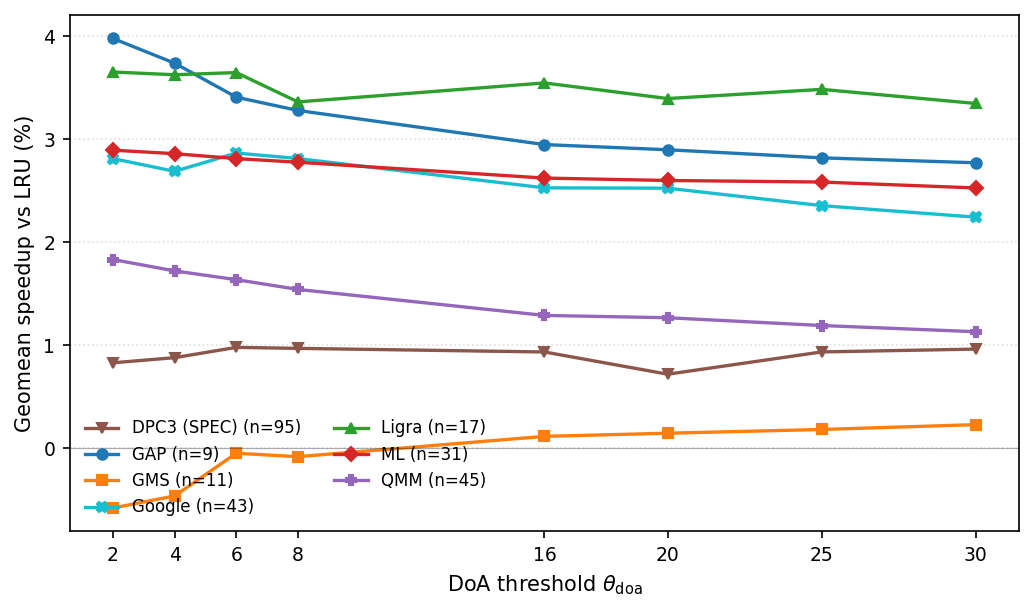
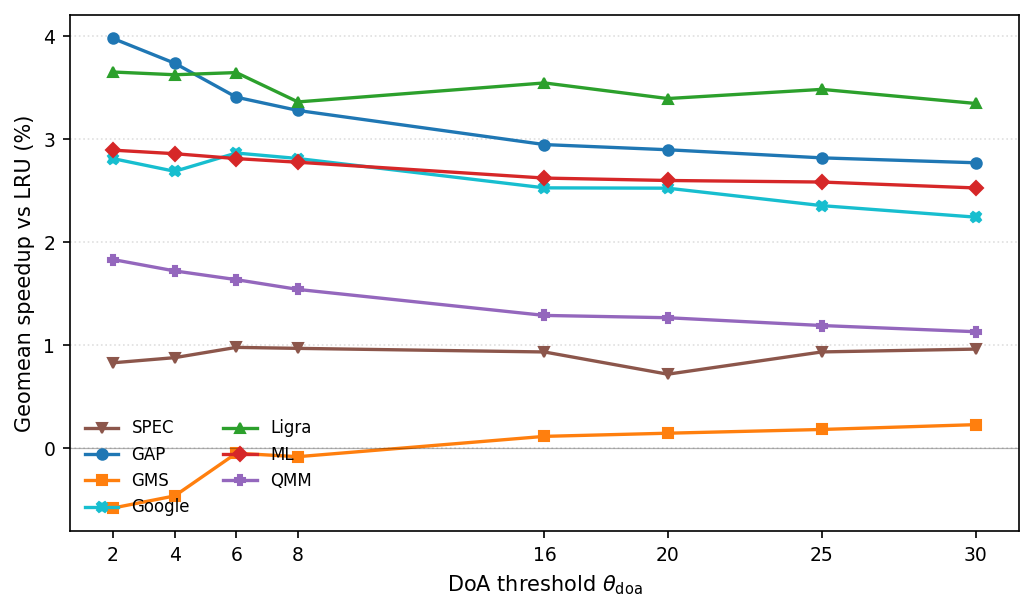
paper: recover and correct Figures 2 and 3 (LRU-Live threshold/size sensitivity)
Same lost-stash incident as Figure 7: these were switched from SRRIP-Live/vs-
SRRIP to LRU-Live/vs-LRU on 2026-07-01, but never landed on any branch.

Figure 2 (fig:doa_thd): the stashed copy was incomplete (missing theta_doa=6,
the paper's own calibrated default). Used the real, complete, already-
committed source instead -- scripts/analysis/plot_lru_live_threshold.py reads
allsuites_thd_phase{2,3}/llc/lru_live/doa{N} vs results/baselines/lru, and was
already correct, just never wired into the paper. Rewrote the prose: the real
data doesn't show GAP "peaking at 6" (that was the old SRRIP-Live claim); GAP/
ML/QMM actually peak at theta=2 and decline monotonically, GMS is the one that
improves with a higher threshold, and theta=6 is argued as a cross-suite
compromise rather than one suite's optimum.

Figure 3 (fig:size_sensitivity): the stashed copy was an explicitly-labeled
"DRAFT -- dpc3 pending" (still on disk as size_sensitivity_draft.png). Found
the complete run on the cluster (results/lru_live_size_peakthd_20260630_2127,
each suite at its own optimal theta_doa, verified 100% complete before
downloading -- now stored locally, 68MB) and wrote
scripts/analysis/plot_lru_live_size_sensitivity.py against it. Per author
direction, each suite's curve is normalised to its own cap=16384 speedup
(100% = unbounded ceiling) rather than plotted as absolute speedup, and GMS
is excluded (negative at every capacity, nothing to show on this axis).
[…]

Changed region(s): [[0.1238, 0.683, 0.4642, 0.8382]]

diff --git a/results/paper/main.tex b/results/paper/main.tex
@@ -739,12 +739,11 @@ uniformly.
 
 \begin{figure}[t!]
 \centering
-\includegraphics[width=\linewidth]{../plots/doa_threshold.png}
-\caption{Per-suite DoA threshold sensitivity: \srrip-Live geomean IPC speedup over
-  pure \srrip as a function of $\theta_{\mathrm{doa}}$ (\llc-only guidance, mode-5
-  falling-weight scoring, PC-keyed history table). Each curve is over the suite's
-  full trace set; SPEC is SimPoint-weighted. The dashed line marks the default
-  $\theta_{\mathrm{doa}}=6$.}
+\includegraphics[width=\linewidth]{../plots/lru_live_threshold.png}
+\caption{Per-suite DoA threshold sensitivity for \lru-Live: geomean IPC speedup
+  over plain \lru as a function of $\theta_{\mathrm{doa}}$ (\llc-only guidance,
+  mode-5 falling-weight scoring, unbounded PC-keyed history table). Each curve
+  is over the suite's full trace set; SPEC is SimPoint-weighted.}
 \label{fig:doa_thd}
 \end{figure}
 
@@ -753,45 +752,56 @@ uniformly.
 
 \begin{figure}[t!]
 \centering
-\includegraphics[width=\linewidth]{../plots/size_sensitivity.png}
-\caption{\llc history table size sensitivity per suite (\srrip-Live,
-  $\theta{=}6/10$, tiered replacement). Y-axis: absolute geomean IPC speedup
-  vs pure \srrip. Open markers at~$\infty$ show the true unbounded result
-  (same binary, no capacity limit).}
+\includegraphics[width=\linewidth]{../plots/lru_live_size_sensitivity.png}
+\caption{\llc history table size sensitivity for \lru-Live, at each suite's own
+  optimal $\theta_{\mathrm{doa}}$ (GAP=2, Ligra=4, QMM=8, ML/Google/SPEC=30).
+  Y-axis: each suite's geomean IPC speedup vs.\ plain \lru at that capacity,
+  normalised to its own speedup at 16{,}384 entries (100\% = the unbounded
+  ceiling). GMS is omitted: its guidance result is negative at every capacity.}
 \label{fig:size_sensitivity}
 \end{figure}
 
 Figure~\ref{fig:doa_thd} sweeps the DoA threshold $\theta_{\mathrm{doa}}$ for
-\srrip-Live on every suite, reported as geomean IPC speedup over pure \srrip.
-Three behaviours emerge. GAP --- the largest single-suite gain --- peaks sharply
-at $\theta_{\mathrm{doa}}=6$ ($+6.1\%$) and declines as the threshold rises,
-because its mostly-alive blocks are misclassified \doa when the counter saturates
-too slowly. Most suites instead rise monotonically and plateau by
-$\theta_{\mathrm{doa}}\approx16$ (SPEC, GMS, Google, QMM, ML), where a higher bar
-suppresses spurious \doa classifications at a small cost in responsiveness. ML
-shows the cost of an over-aggressive threshold directly: at $\theta_{\mathrm{doa}}=2$
-it loses $-5.8\%$, recovering to $+1.7\%$ by $\theta_{\mathrm{doa}}=4$. Ligra is
-the holdout, remaining slightly negative until $\theta_{\mathrm{doa}}\approx25$.
-We adopt $\theta_{\mathrm{doa}}=6$ as the default: it captures GAP's optimum and
-sits within ${\approx}1\%$ of the plateau for the SPEC and server suites, trading
-a small amount of headroom on the graph suites for robustness on the suite with
-the most to gain.
+\lru-Live on every suite, reported as geomean IPC speedup over plain \lru.
+GAP, ML, and QMM peak at the lowest threshold tested
+($\theta_{\mathrm{doa}}=2$) and decline monotonically as the threshold rises
+($+3.98\%\to+2.77\%$, $+2.89\%\to+2.53\%$, and $+1.83\%\to+1.13\%$
+respectively, from $\theta_{\mathrm{doa}}=2$ to $30$): a lower bar classifies
+blocks \doa sooner, so these suites are best served by the most aggressive
+setting available. SPEC, Google, and Ligra instead stay flat and noisy across
+the whole sweep, each sitting at or near a local peak around
+$\theta_{\mathrm{doa}}=6$ ($+0.98\%$, $+2.87\%$, $+3.65\%$). GMS is the
+exception that benefits from a \emph{higher} threshold: it is clearly harmful
+at $\theta_{\mathrm{doa}}=2$ ($-0.58\%$), crosses to roughly breakeven by
+$\theta_{\mathrm{doa}}=6$ ($-0.05\%$), and keeps improving through
+$\theta_{\mathrm{doa}}=30$ ($+0.23\%$). We adopt $\theta_{\mathrm{doa}}=6$ as
+the default: it sits at or near the local peak for the flat suites, still
+captures most of the early gain for the declining suites, and is the point
+where GMS stops being clearly harmful --- a reasonable single compromise
+across suites whose optima otherwise point in opposite directions.
 
-We sweep the \llc history table capacity from 8 to 4096 entries (\srrip-Live,
-$\theta_\text{LLC}{=}6$, $\theta_\text{dead}{=}10$, tiered table replacement).
-The y-axis is the absolute geomean IPC speedup over pure \srrip.
+We sweep the \llc history table capacity from 8 to 16{,}384 entries
+(\lru-Live, each suite at its own optimal $\theta_{\mathrm{doa}}$ from
+Figure~\ref{fig:doa_thd}, tiered table replacement), normalising each suite's
+curve to its own speedup at cap=16{,}384 (treated as the unbounded ceiling,
+$100\%$). GMS is omitted, consistent with its negative replacement-guidance
+contribution at every threshold (Figure~\ref{fig:doa_thd}).
 
-Figure~\ref{fig:size_sensitivity} reveals three qualitatively different behaviours.
-GAP and ML converge to their unbounded speedup by cap=32--64: their \doa traffic
-is concentrated in only a handful of PCs (Table~\ref{tab:concentration}), so a
-tiny table captures the entire signal.
-QMM needs a much larger table: at cap=8 the benefit is negligible (${\approx}0\%$),
-growing monotonically to $+1.5\%$ at cap=4096, because QMM's \doa traffic is
-spread across ${\sim}35$K unique PCs and warm-misses at small capacities keep
-those PCs mis-classified as mostly-alive.
-GMS and Ligra show no net benefit from liveness guidance at any table size
-($-0.6\%$ and $-2.0\%$ throughout), consistent with their near-zero or negative
-replacement-guidance contribution in Figure~\ref{fig:live_vs_base}.
+Figure~\ref{fig:size_sensitivity} shows two qualitatively different
+behaviours. GAP, Ligra, and ML reach ${\approx}90\%$ of their ceiling by
+cap=32 and are within noise of $100\%$ by cap=256 ($86.7\%\to98.2\%\to99.2\%$,
+$81.5\%\to93.3\%\to99.7\%$, and $87.9\%\to100.5\%\to99.6\%$ respectively, from
+cap=8 to 32 to 256): their \doa traffic is concentrated in only a handful of
+PCs (Table~\ref{tab:concentration}), so a small table already captures nearly
+the whole signal. SPEC needs more capacity and is noisier along the
+way (dipping to $41.6\%$ at cap=64 after reaching $70.8\%$ at cap=16), but
+still reaches $91.7\%$ by cap=256 and is effectively converged by cap=1024.
+QMM and Google are qualitatively different: both stay below $20\%$ of their
+ceiling through cap=256 and don't cross $50\%$ until cap=2K--4K, only
+reaching their full gain at the largest capacity tested, because their \doa
+traffic is spread across tens of thousands of unique PCs and small capacities
+evict most of those PCs before they accumulate enough evidence to be
+classified \doa.
 
 \begin{figure*}[t!]
 \centering
@@ -1051,7 +1061,7 @@ per-PC entry aggregates every fill issued by the same load instruction into a
 single counter, whereas a per-address entry on these workloads is rarely
 updated more than once before its block is evicted.
 
-SPEC (DPC3) is the exception: per-PC guidance alone reaches only $+0.40\%$,
+SPEC is the exception: per-PC guidance alone reaches only $+0.40\%$,
 and per-address edges slightly ahead at $+0.73\%$. This is a marked change
 from the combined bypass\,+\,replacement result (\S\ref{sec:perf}), where
 per-PC led SPEC by $+17.3\%$ to $+3.0\%$ --- indicating that per-PC's

diff --git a/scripts/analysis/plot_lru_live_size_sensitivity.py b/scripts/analysis/plot_lru_live_size_sensitivity.py
@@ -1,0 +1,106 @@
+#!/usr/bin/env python3
+"""LLC history-table size sensitivity for LRU-Live (vs LRU baseline), at each
+suite's own optimal DoA threshold.
+
+Per-suite geomean IPC speedup over plain LRU as a function of REPL_HIST_LLC_CAP,
+normalised to each suite's own speedup at the largest capacity tested (16,384
+entries, treated as the unbounded ceiling = 100%). SPEC uses SimPoint-weighted
+geomean; all others use flat geomean. GMS is excluded: its guidance results
+are negative at every capacity, so there is nothing to show on this axis.
+
+Data sources:
+  numerator : results/lru_live_size_peakthd_20260630_2127/cap{N}/{suite}/{trace}
+              (thd_doa per suite: gap=2, ligra=4, ml=30, qmm=8, google=30, dpc3=30)
+  baseline  : results/baselines/lru/{suite}/{trace}
+"""
+
+import math
+import sys
+from pathlib import Path
+
+import matplotlib
+matplotlib.use("Agg")
+import matplotlib.pyplot as plt
+
+ROOT = Path(__file__).resolve().parents[2]
+sys.path.insert(0, str(Path(__file__).parent))
+from spec_weights import benchmark_weighted_geomean_pct  # noqa: E402
+
+DATA_DIR = ROOT / "results" / "lru_live_size_peakthd_20260630_2127"
+CAPS = [8, 16, 32, 64, 128, 256, 512, 1024, 2048, 4096, 8192, 16384]
+
+SUITES = {"dpc3": "SPEC", "gap": "GAP", "google": "Google",
+          "ligra": "Ligra", "ml": "ML", "qmm": "QMM"}
+WEIGHTED = {"dpc3"}
+COLORS  = {"dpc3": "#8c564b", "gap": "#1f77b4", "google": "#17becf",
+           "ligra": "#2ca02c", "ml": "#d62728", "qmm": "#9467bd"}
+MARKERS = {"dpc3": "v", "gap": "o", "google": "X",
+           "ligra": "^", "ml": "D", "qmm": "P"}
+
+
+def get_ipc(path):
+    try:
+        for line in reversed(Path(path).read_text().splitlines()):
+            if "CPU 0 cumulative IPC:" in line:
+                return float(line.split()[4])
+    except Exception:
+        pass
+    return None
+
+
+def main():
+    fig, ax = plt.subplots(figsize=(7, 4.2))
+
+    for suite, label in SUITES.items():
+        base_dir = ROOT / "results" / "baselines" / "lru" / suite
+        if not base_dir.is_dir():
+            continue
+        base = {td.name: get_ipc(td / "champsim.out")
+                for td in base_dir.iterdir() if td.is_dir()}
+        base = {k: v for k, v in base.items() if v}
+
+        cap_pct = {}
+        for cap in CAPS:
+            suite_dir = DATA_DIR / f"cap{cap}" / suite
+            if not suite_dir.is_dir():
+                continue
+            ratios = {}
+            for tr in base:
+                live = get_ipc(suite_dir / tr / "champsim.out")
+                if live and base[tr] > 0:
+                    ratios[tr] = live / base[tr]
+            if len(ratios) < 3:
+                continue
+            if suite in WEIGHTED:
+                pct = benchmark_weighted_geomean_pct(ratios)
+            else:
+                g = math.exp(sum(math.log(r) for r in ratios.values()) / len(ratios))
+                pct = (g - 1.0) * 100.0
+            cap_pct[cap] = pct
+
+        if 16384 not in cap_pct or cap_pct[16384] == 0:
+            continue
+        ceiling = cap_pct[16384]
+
+        xs = [CAPS.index(cap) for cap in CAPS if cap in cap_pct]
+        ys = [cap_pct[cap] / ceiling * 100.0 for cap in CAPS if cap in cap_pct]
+        ax.plot(xs, ys, color=COLORS[suite], marker=MARKERS[suite],
+                markersize=5, linewidth=1.6, label=label)
+
+    ax.axhline(100, color="black", linestyle="--", linewidth=0.8, alpha=0.5)
+    ax.set_xlabel("LLC history table capacity (entries)", fontsize=10)
+    ax.set_ylabel("% of unbounded-table speedup", fontsize=10)
+    ax.set_xticks(range(len(CAPS)))
+    ax.set_xticklabels(["8", "16", "32", "64", "128", "256", "512", "1K", "2K", "4K", "8K", "16K"], fontsize=8)
+    ax.tick_params(axis="y", labelsize=9)
+    ax.legend(frameon=False, fontsize=9, loc="lower right")
+    ax.grid(axis="y", linestyle=":", alpha=0.4)
+
+    fig.tight_layout()
+    out = ROOT / "results" / "plots" / "lru_live_size_sensitivity.png"
+    fig.savefig(out, dpi=150, bbox_inches="tight")
+    print("wrote", out)
+
+
+if __name__ == "__main__":
+    main()

diff --git a/scripts/analysis/plot_liveness_per_policy.py b/scripts/analysis/plot_liveness_per_policy.py
@@ -31,9 +31,9 @@ OUT     = os.path.join(RESULTS, "plots", "liveness_per_policy.png")
 # in fix-pc-liveness-phase-reset / commit b0d1c047391e), inflating LRU and
 # SRRIP counts by ~2x. IPV's original numbers matched this re-extraction
 # exactly (verified byte-for-byte) and are unchanged.
-RAW = {"SRRIP": {"QMM": {"alive": 523648, "dead": 1309086, "doa": 6405421, "total": 8238155}, "Google": {"alive": 2801205, "dead": 8442057, "doa": 46382134, "total": 57625396}, "Ligra": {"alive": 502087, "dead": 958339, "doa": 34011916, "total": 35472342}, "GAP": {"alive": 1373678, "dead": 1951856, "doa": 18503939, "total": 21829473}, "DPC3": {"alive": 1015601, "dead": 10282550, "doa": 96264282, "total": 107562433}, "ML": {"alive": 110256, "dead": 1903896, "doa": 104506072, "total": 106520224}, "GMS": {"alive": 176645, "dead": 448012, "doa": 5966229, "total": 6590886}}, "LRU": {"QMM": {"alive": 1207365, "dead": 1749802, "doa": 6297828, "total": 9254995}, "Google": {"alive": 5175141, "dead": 10723120, "doa": 44766468, "total": 60664729}, "Ligra": {"alive": 995839, "dead": 1459344, "doa": 33809284, "total": 36264467}, "GAP": {"alive": 2807130, "dead": 3458943, "doa": 17918181, "total": 24184254}, "DPC3": {"alive": 2040753, "dead": 11394670, "doa": 96889207, "total": 110324630}, "ML": {"alive": 219559, "dead": 1906611, "doa": 104171423, "total": 106297593}, "GMS": {"alive": 272688, "dead": 613624, "doa": 5988136, "total": 6874448}}, "IPV": {"QMM": {"alive": 534750, "dead": 2850628, "doa": 4857472, "total": 8242850}, "Google": {"alive": 2951306, "dead": 16629414, "doa": 38059767, "total": 57640487}, "Ligra": {"alive": 510751, "dead": 14413884, "doa": 20547707, "total": 35472342}, "GAP": {"alive": 1415119, "dead": 6268235, "doa": 14146119, "total": 21829473}, "DPC3": {"alive": 1103132, "dead": 33231526, "doa": 73215338, "total": 107549996}, "ML": {"alive": 136913, "dead": 2975735, "doa": 103407558, "total": 106520206}, "GMS": {"alive": 182778, "dead": 538147, "doa": 5869961, "total": 6590886}}}
+RAW = {"SRRIP": {"QMM": {"alive": 523648, "dead": 1309086, "doa": 6405421, "total": 8238155}, "Google": {"alive": 2801205, "dead": 8442057, "doa": 46382134, "total": 57625396}, "Ligra": {"alive": 502087, "dead": 958339, "doa": 34011916, "total": 35472342}, "GAP": {"alive": 1373678, "dead": 1951856, "doa": 18503939, "total": 21829473}, "SPEC": {"alive": 1015601, "dead": 10282550, "doa": 96264282, "total": 107562433}, "ML": {"alive": 110256, "dead": 1903896, "doa": 104506072, "total": 106520224}, "GMS": {"alive": 176645, "dead": 448012, "doa": 5966229, "total": 6590886}}, "LRU": {"QMM": {"alive": 1207365, "dead": 1749802, "doa": 6297828, "total": 9254995}, "Google": {"alive": 5175141, "dead": 10723120, "doa": 44766468, "total": 60664729}, "Ligra": {"alive": 995839, "dead": 1459344, "doa": 33809284, "total": 36264467}, "GAP": {"alive": 2807130, "dead": 3458943, "doa": 17918181, "total": 24184254}, "SPEC": {"alive": 2040753, "dead": 11394670, "doa": 96889207, "total": 110324630}, "ML": {"alive": 219559, "dead": 1906611, "doa": 104171423, "total": 106297593}, "GMS": {"alive": 272688, "dead": 613624, "doa": 5988136, "total": 6874448}}, "IPV": {"QMM": {"alive": 534750, "dead": 2850628, "doa": 4857472, "total": 8242850}, "Google": {"alive": 2951306, "dead": 16629414, "doa": 38059767, "total": 57640487}, "Ligra": {"alive": 510751, "dead": 14413884, "doa": 20547707, "total": 35472342}, "GAP": {"alive": 1415119, "dead": 6268235, "doa": 14146119, "total": 21829473}, "SPEC": {"alive": 1103132, "dead": 33231526, "doa": 73215338, "total": 107549996}, "ML": {"alive": 136913, "dead": 2975735, "doa": 103407558, "total": 106520206}, "GMS": {"alive": 182778, "dead": 538147, "doa": 5869961, "total": 6590886}}}
 
-SUITES   = ["DPC3", "GAP", "GMS", "Google", "Ligra", "ML", "QMM"]
+SUITES   = ["SPEC", "GAP", "GMS", "Google", "Ligra", "ML", "QMM"]
 POLICIES = ["LRU", "SRRIP", "IPV"]
 
 def pct(raw, suite):

diff --git a/scripts/analysis/plot_lru_live_threshold.py b/scripts/analysis/plot_lru_live_threshold.py
@@ -2,7 +2,7 @@
 """DoA threshold sensitivity for LRU-Live (vs LRU baseline).
 
 Per-suite geomean IPC speedup over plain LRU as a function of THD_DOA.
-DPC3 uses SimPoint-weighted geomean; all others use flat geomean.
+SPEC uses SimPoint-weighted geomean; all others use flat geomean.
 
 Data sources:
   numerator : allsuites_thd_phase{2,3}/llc/lru_live/doa{N}/{suite}/{trace}
@@ -36,7 +36,7 @@ THD = {
 }
 THRESHOLDS = sorted(THD)
 
-SUITES = {"dpc3": "DPC3 (SPEC)", "gap": "GAP", "gms": "GMS", "google": "Google",
+SUITES = {"dpc3": "SPEC", "gap": "GAP", "gms": "GMS", "google": "Google",
           "ligra": "Ligra", "ml": "ML", "qmm": "QMM"}
 WEIGHTED = {"dpc3"}
 COLORS  = {"dpc3": "#8c564b", "gap": "#1f77b4", "gms": "#ff7f0e", "google": "#17becf",
@@ -101,7 +101,7 @@ def main():
             continue
 
         ax.plot(xs, ys, color=COLORS[suite], marker=MARKERS[suite],
-                markersize=5, linewidth=1.6, label=f"{label} (n={len(common)})")
+                markersize=5, linewidth=1.6, label=label)
 
     ax.axhline(0, color="black", linewidth=0.6, alpha=0.3)
     ax.set_xlabel(r"DoA threshold $\theta_{\mathrm{doa}}$", fontsize=10)

diff --git a/scripts/analysis/plot_paper_comparison.py b/scripts/analysis/plot_paper_comparison.py
@@ -14,7 +14,7 @@ matplotlib.use("Agg")
 import matplotlib.pyplot as plt
 import numpy as np
 
-SUITES   = ["GAP", "Ligra", "ML", "QMM", "Google", "DPC3", "GMS"]
+SUITES   = ["GAP", "Ligra", "ML", "QMM", "Google", "SPEC", "GMS"]
 PERPC    = [6.12, 4.95, 2.83, 2.53, 2.34, 0.40, -0.63]        # per-PC, unbounded
 PADDR    = [1.41, -0.03, 0.80, 0.76, -0.37, 0.73, -0.19]      # per-address, unbounded
 PADDR_4K = [-0.07, 0.0, 0.0, 0.17, 0.0, 0.0, -0.02]           # per-address, 4096-entry cap

diff --git a/results/paper/FIGURE_PROVENANCE.md b/results/paper/FIGURE_PROVENANCE.md
@@ -355,6 +355,68 @@ that edit was uncommitted and never produced a working figure.
 
 ---
 
+## Figure 2 — `fig:doa_thd` (`results/plots/lru_live_threshold.png`)
+
+> **Corrected 2026-07-02.** This figure and Figure 3 were switched from
+> SRRIP-Live/vs-SRRIP to LRU-Live/vs-LRU on 2026-07-01, but the regenerated PNGs
+> got caught in a `git stash` during a branch switch and were never applied —
+> same incident as Figure 7 (see that section). The stash's copy of this figure
+> also turned out to be incomplete: its threshold sweep omitted
+> $\theta_{\mathrm{doa}}=6$, the paper's own calibrated default, so it couldn't
+> be used to recompute this section's prose. The actual data was already
+> sitting locally and unused: `scripts/analysis/plot_lru_live_threshold.py`
+> (committed, but never wired into the paper) reads
+> `results/allsuites_thd_phase{2,3}_202606{17,18}_*/llc/lru_live/doa{N}` (all
+> thresholds present, including 6) against `results/baselines/lru/{suite}`. Ran
+> it directly; no new data collection needed.
+
+### Regeneration
+```bash
+python3 scripts/analysis/plot_lru_live_threshold.py
+```
+Output: `results/plots/lru_live_threshold.png`. All source directories are
+present locally (see script docstring for exact paths).
+
+### What changed from the superseded SRRIP-Live version
+
+The old figure claimed GAP "peaks sharply at $\theta_{\mathrm{doa}}=6$" and
+motivated the default on that basis. The real LRU-Live data shows a different
+shape: GAP, ML, and QMM peak at $\theta_{\mathrm{doa}}=2$ and decline
+monotonically; SPEC, Google, and Ligra are flat/noisy with a local peak near
+6; GMS is the one that improves with a *higher* threshold, crossing from
+negative to positive around 6. The $\theta_{\mathrm{doa}}=6$ default is
+still adopted, but the prose now argues for it as a cross-suite compromise
+rather than a single suite's peak.
+
+---
+
+## Figure 3 — `fig:size_sensitivity` (`results/plots/lru_live_size_sensitivity.png`)
+
+> **Corrected 2026-07-02.** Same lost-stash incident as Figure 2. The stashed
+> copy also turned out to be an abandoned draft
+> (`results/plots/size_sensitivity_draft.png`, still on disk, literally titled
+> "DRAFT — dpc3 pending"), not a finished figure. The real, complete dataset
+> was found on the cluster: `results/lru_live_size_peakthd_20260630_2127/`
+> (each suite swept at its own optimal $\theta_{\mathrm{doa}}$ from Figure 2 —
+> GAP=2, Ligra=4, QMM=8, ML/Google/SPEC=30 — across 12 capacities, 8 to
+> 16,384 entries). Verified 100% complete (every suite × capacity cell has
+> `Simulation finished` in every trace) before downloading; now stored locally
+> at that same path (68 MB). GMS is excluded from this sweep entirely: its
+> guidance result is negative at every threshold (Figure 2), so there was
+> nothing to show on a capacity axis. Per author direction, each suite's curve
+> is normalised to its own speedup at cap=16,384 (100% = the unbounded
+> ceiling), rather than plotted as absolute geomean speedup vs LRU.
+
+### Regeneration
+```bash
+python3 scripts/analysis/plot_lru_live_size_sensitivity.py
+```
+Output: `results/plots/lru_live_size_sensitivity.png`. Reads
+`results/lru_live_size_peakthd_20260630_2127/cap{N}/{suite}/{trace}` against
+`results/baselines/lru/{suite}/{trace}`, both present locally.
+
+---
+
 ## Table 1 — `tab:concentration` (per-PC DoA concentration, "n90")
 
 ### What it shows
